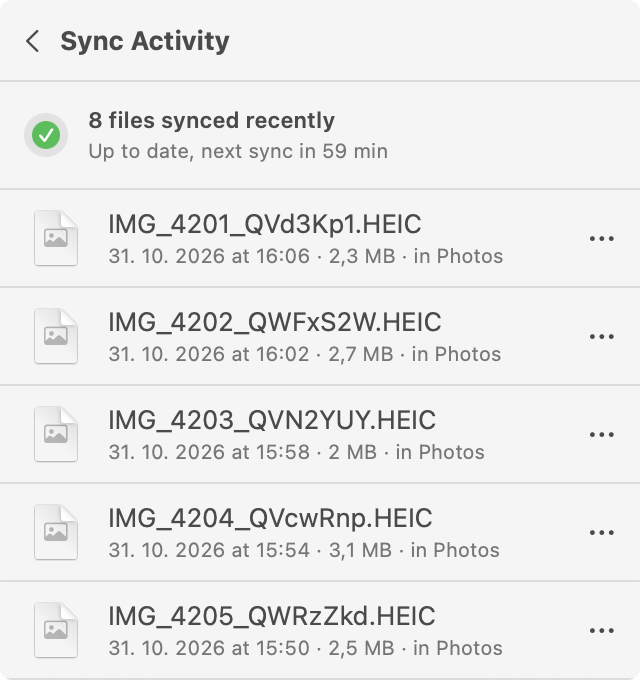
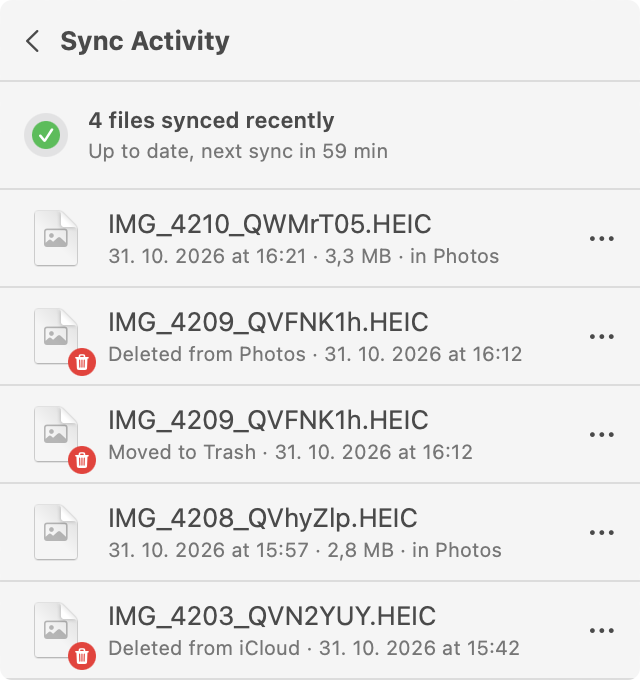
menubar_app: show deletions in Sync Activity
The history now also lists what the app deleted: from iCloud, from Photos, and
files moved to the Trash, each with a red trash badge. The review window and
both automatic directions record their deletions.

diff --git a/menubar_app/Sources/MenuBarApp/AppModel.swift b/menubar_app/Sources/MenuBarApp/AppModel.swift
@@ -154,12 +154,26 @@ final class AppModel: ObservableObject {
         }
     }
 
+    /// Adds the deletions the app carries out to the history (Sync Activity), next to the downloads.
+    func recordEvents(_ kind: ActivityFile.Kind, _ items: [TrashCandidate]) {
+        guard !items.isEmpty else { return }
+        let now = Date().timeIntervalSince1970
+        let events = items.enumerated().map { index, item in
+            ActivityFile(name: item.name, path: item.path, size: item.size > 0 ? item.size : nil,
+                         time: now + Double(index) * 0.001, kind: kind.rawValue)
+        }
+        activity = (events + activity).sorted { $0.time > $1.time }.prefix(200).map { $0 }
+        saveActivity()
+    }
+
+    private var downloadCount: Int { activity.filter { $0.event == .downloaded }.count }
+
     var activitySummary: String {
         if case .syncing(_, let done, let total) = state {
             return total > 0 ? "Syncing \(done) of \(total) files" : "Syncing…"
         }
         if state == .syncRequested { return "Syncing…" }
-        return activity.isEmpty ? "No files synced yet" : "\(activity.count) files synced recently"
+        return downloadCount == 0 ? "No files synced yet" : "\(downloadCount) files synced recently"
     }
 
     // MARK: - Start / stop
@@ -523,6 +537,7 @@ final class AppModel: ObservableObject {
                 if result.ok {
                     deletedFromICloud.formUnion(todo.map(\.id))
                     saveDeletedFromICloud()
+                    recordEvents(.deletedICloud, todo)
                     summary.append("\(todo.count) deleted from iCloud")
                 } else {
                     deletionStatus = "Deleting from iCloud failed, see the log."
@@ -537,6 +552,7 @@ final class AppModel: ObservableObject {
             let ready = items.filter { !wantICloud || deletedFromICloud.contains($0.id) }
             let result = Deletion.moveToTrash(ready)
             AppLog.write("moved \(result.moved) file(s) to the Trash. \(result.failures.joined(separator: "; "))")
+            recordEvents(.trashedDisk, result.items)
             if result.moved > 0 { summary.append("\(result.moved) moved to the Trash") }
         }
         pendingDeletion = []
@@ -638,8 +654,9 @@ final class AppModel: ObservableObject {
         if d.bool(forKey: Prefs.mirrorPhotos) {
             mirrorStatus = "Removing from Photos…"
             switch await PhotosDelete.delete(items) {
-            case .deleted(let count, let notInPhotos):
+            case .deleted(let count, let notInPhotos, let deleted):
                 AppLog.write("deleted \(count) photo(s) from Photos (\(notInPhotos) were not in Photos)")
+                recordEvents(.deletedPhotos, deleted)
                 if count > 0 { summary.append("\(count) deleted from Photos") }
             case .cancelled:
                 AppLog.write("deleting from Photos was cancelled in the system dialog")
@@ -663,6 +680,7 @@ final class AppModel: ObservableObject {
         if d.bool(forKey: Prefs.mirrorDisk) {
             let result = Deletion.moveToTrash(items)
             AppLog.write("moved \(result.moved) file(s) to the Trash. \(result.failures.joined(separator: "; "))")
+            recordEvents(.trashedDisk, result.items)
             if result.moved > 0 { summary.append("\(result.moved) moved to the Trash") }
         }
         mirroredPaths.formUnion(items.map(\.path))

diff --git a/menubar_app/Sources/MenuBarApp/ActivityView.swift b/menubar_app/Sources/MenuBarApp/ActivityView.swift
@@ -1,5 +1,6 @@
 import AppKit
 import SwiftUI
+import UniformTypeIdentifiers
 
 /// "Sync Activity": the files icloudpd downloaded recently, newest first. Click a file to open it.
 struct ActivityView: View {
@@ -66,6 +67,18 @@ struct SyncBadge: View {
     }
 }
 
+/// Small red trash can on the icon of a file that was deleted.
+private struct DeletedBadge: View {
+    var body: some View {
+        Image(systemName: "trash.fill")
+            .font(.system(size: 7, weight: .bold))
+            .foregroundStyle(.white)
+            .frame(width: 14, height: 14)
+            .background(Circle().fill(Color.red))
+            .offset(x: 4, y: 4)
+    }
+}
+
 private struct ActivityRow: View {
     let file: ActivityFile
     let imported: Bool
@@ -73,9 +86,10 @@ private struct ActivityRow: View {
     var body: some View {
         let exists = FileManager.default.fileExists(atPath: file.path)
         HStack(spacing: 10) {
-            Image(nsImage: NSWorkspace.shared.icon(forFile: file.path))
+            Image(nsImage: icon(exists: exists))
                 .resizable().frame(width: 32, height: 32)
                 .opacity(exists ? 1 : 0.4)
+                .overlay(alignment: .bottomTrailing) { if file.event != .downloaded { DeletedBadge() } }
             VStack(alignment: .leading, spacing: 2) {
                 Text(file.name).lineLimit(1).truncationMode(.middle)
                 Text(subtitle(exists: exists)).font(.caption).foregroundStyle(.secondary)
@@ -96,8 +110,21 @@ private struct ActivityRow: View {
         .onTapGesture { if exists { open() } }
     }
 
+    /// A file that no longer exists has no icon of its own; use the one of its type.
+    private func icon(exists: Bool) -> NSImage {
+        if exists || file.event == .downloaded { return NSWorkspace.shared.icon(forFile: file.path) }
+        let type = UTType(filenameExtension: URL(fileURLWithPath: file.path).pathExtension) ?? .data
+        return NSWorkspace.shared.icon(for: type)
+    }
+
     private func subtitle(exists: Bool) -> String {
         let time = Date(timeIntervalSince1970: file.time).formatted(date: .abbreviated, time: .shortened)
+        switch file.event {
+        case .deletedICloud: return "Deleted from iCloud · \(time)"
+        case .deletedPhotos: return "Deleted from Photos · \(time)"
+        case .trashedDisk: return "Moved to Trash · \(time)"
+        case .downloaded: break
+        }
         guard exists else { return "\(time) · file not found" }
         let marker = imported ? " · in Photos" : ""
         guard let size = file.size else { return time + marker }

diff --git a/menubar_app/Sources/MenuBarApp/DeleteReviewView.swift b/menubar_app/Sources/MenuBarApp/DeleteReviewView.swift
@@ -33,15 +33,17 @@ final class ReviewModel: ObservableObject {
     }
 
     /// Dry run, delete from iCloud, or delete from iCloud and move the downloaded files to the Trash.
-    func run(_ mode: DeleteMode) {
+    func run(_ mode: DeleteMode, app: AppModel) {
         guard let items = result?.candidates, !items.isEmpty else { return }
         working = true
         output = ""
         Task {
             let (ok, text) = await Deletion.deleteFromICloud(items, dryRun: mode == .dryRun)
             var report = text
+            if ok, mode != .dryRun { app.recordEvents(.deletedICloud, items) }
             if ok, mode == .iCloudAndDisk {
                 let trashed = Deletion.moveToTrash(items)
+                app.recordEvents(.trashedDisk, trashed.items)
                 report += "\nMoved \(trashed.moved) file(s) to the Trash."
                 if !trashed.failures.isEmpty { report += "\nNot moved: " + trashed.failures.joined(separator: "; ") }
             }
@@ -54,6 +56,7 @@ final class ReviewModel: ObservableObject {
 
 struct DeleteReviewView: View {
     @StateObject private var model = ReviewModel()
+    @EnvironmentObject var app: AppModel
 
     var body: some View {
         VStack(alignment: .leading, spacing: 12) {
@@ -86,7 +89,7 @@ struct DeleteReviewView: View {
                     }
                     .frame(minHeight: 120)
                     HStack {
-                        Button("Dry run") { model.run(.dryRun) }
+                        Button("Dry run") { model.run(.dryRun, app: app) }
                         Button("Delete from iCloud…", role: .destructive) { model.confirmMode = .iCloud }
                         Button("Delete from iCloud & Disk…", role: .destructive) { model.confirmMode = .iCloudAndDisk }
                         if model.working { ProgressView().controlSize(.small) }
@@ -107,9 +110,9 @@ struct DeleteReviewView: View {
             titleVisibility: .visible
         ) {
             if model.confirmMode == .iCloudAndDisk {
-                Button("Delete from iCloud and move files to Trash", role: .destructive) { model.run(.iCloudAndDisk) }
+                Button("Delete from iCloud and move files to Trash", role: .destructive) { model.run(.iCloudAndDisk, app: app) }
             } else {
-                Button("Delete from iCloud", role: .destructive) { model.run(.iCloud) }
+                Button("Delete from iCloud", role: .destructive) { model.run(.iCloud, app: app) }
             }
             Button("Cancel", role: .cancel) {}
         } message: {

diff --git a/menubar_app/Sources/MenuBarApp/PhotosDelete.swift b/menubar_app/Sources/MenuBarApp/PhotosDelete.swift
@@ -7,7 +7,7 @@ import Photos
 /// PhotoKit only sees the System Photo Library.
 enum PhotosDelete {
     enum Outcome {
-        case deleted(count: Int, notInPhotos: Int)
+        case deleted(count: Int, notInPhotos: Int, items: [TrashCandidate])
         case cancelled
         case denied
         case failed(String)
@@ -21,19 +21,20 @@ enum PhotosDelete {
         guard await PHPhotoLibrary.requestAuthorization(for: .readWrite) == .authorized else { return .denied }
 
         var assets: [PHAsset] = []
+        var matched: [TrashCandidate] = []
         var missing = 0
         for item in items where !isSidecar(item.path) {
             let found = assetsNamed(item.name, around: TimeInterval(item.createdUnix))
-            if found.isEmpty { missing += 1 } else { assets += found }
+            if found.isEmpty { missing += 1 } else { assets += found; matched.append(item) }
         }
-        guard !assets.isEmpty else { return .deleted(count: 0, notInPhotos: missing) }
+        guard !assets.isEmpty else { return .deleted(count: 0, notInPhotos: missing, items: []) }
 
         NSApp.activate(ignoringOtherApps: true)  // so that the system dialog is seen
         do {
             try await PHPhotoLibrary.shared().performChanges {
                 PHAssetChangeRequest.deleteAssets(assets as NSArray)
             }
-            return .deleted(count: assets.count, notInPhotos: missing)
+            return .deleted(count: assets.count, notInPhotos: missing, items: matched)
         } catch {
             let ns = error as NSError
             if ns.domain == PHPhotosErrorDomain, ns.code == PHPhotosError.userCancelled.rawValue { return .cancelled }

diff --git a/menubar_app/Sources/MenuBarApp/Deletion.swift b/menubar_app/Sources/MenuBarApp/Deletion.swift
@@ -46,19 +46,21 @@ enum Deletion {
     }
 
     /// Moves the downloaded files to the Trash, so they can still be restored from there.
-    static func moveToTrash(_ items: [TrashCandidate]) -> (moved: Int, failures: [String]) {
+    static func moveToTrash(_ items: [TrashCandidate]) -> (moved: Int, failures: [String], items: [TrashCandidate]) {
         var moved = 0
+        var movedItems: [TrashCandidate] = []
         var failures: [String] = []
         for item in items {
             do {
                 try FileManager.default.trashItem(at: URL(fileURLWithPath: item.path), resultingItemURL: nil)
                 moved += 1
+                movedItems.append(item)
             } catch {
                 failures.append("\(item.name): \(error.localizedDescription)")
             }
         }
         appendAudit(mode: "TRASH", items: items)
-        return (moved, failures)
+        return (moved, failures, movedItems)
     }
 }
 

diff --git a/menubar_app/Sources/MenuBarApp/StatusClient.swift b/menubar_app/Sources/MenuBarApp/StatusClient.swift
@@ -23,7 +23,18 @@ struct ActivityFile: Codable, Identifiable, Hashable {
     let path: String
     let size: Int64?
     let time: Double
-    var id: String { "\(path)|\(time)" }
+    /// nil for a download (what icloudpd reports); the app adds the deletions it carries out
+    var kind: String? = nil
+    var id: String { "\(kind ?? "downloaded")|\(path)|\(time)" }
+
+    enum Kind: String {
+        case downloaded
+        case deletedICloud
+        case deletedPhotos
+        case trashedDisk
+    }
+
+    var event: Kind { Kind(rawValue: kind ?? "") ?? .downloaded }
 }
 
 struct ActivityResponse: Decodable {

diff --git a/menubar_app/Sources/MenuBarApp/App.swift b/menubar_app/Sources/MenuBarApp/App.swift
@@ -15,7 +15,7 @@ struct ICloudpdMenuBarApp: App {
         .menuBarExtraStyle(.window)
 
         Window("Photos Sync Settings", id: "settings") { SettingsView().environmentObject(model) }
-        Window("iCloud deletions", id: "review") { DeleteReviewView() }
+        Window("iCloud deletions", id: "review") { DeleteReviewView().environmentObject(model) }
     }
 }
 

diff --git a/menubar_app/README.md b/menubar_app/README.md
@@ -27,8 +27,8 @@ delete from iCloud (and the disk) the photos you delete in Photos.
   *Sync now* checks right away. Only photos that are not downloaded yet are fetched.
 - **Shows the state in the menu bar icon and the panel**: idle, syncing with progress, up to date with the time to the
   next sync, two-factor code needed, problem.
-- **Keeps a history of synced files** (Sync Activity, like OneDrive's), where each file can be opened or revealed in
-  Finder.
+- **Keeps a history** (Sync Activity, like OneDrive's) of the files that were synced and of the deletions the app
+  carried out (from iCloud, from Photos, moved to the Trash), where each file can be opened or revealed in Finder.
 - **Imports downloaded photos into Apple Photos** automatically (off by default).
 - **Mirrors deletions in both directions**: photos you delete in Photos can be deleted from iCloud and from the disk
   (moved to the Trash), and photos you delete in iCloud can be removed from the disk and from Photos. By hand or
@@ -101,8 +101,9 @@ Permissions the app may ask for:
 - The row with the green check opens **Sync Activity**; the gear opens **Settings**; the three dots open the web UI,
   the log, and Quit.
 
-**Sync Activity** lists the files that were synced, newest first. Click a file to open it, or use the dots for *Show in
-Finder* and *Copy path*. A file that was imported is marked *in Photos*. The list survives restarts.
+**Sync Activity** lists the files that were synced, newest first, and the deletions the app carried out, marked with a red
+trash can and *Deleted from iCloud*, *Deleted from Photos* or *Moved to Trash*. Click a file to open it, or use the dots
+for *Show in Finder* and *Copy path*. A file that was imported is marked *in Photos*. The list survives restarts.
 
 <p align="center"><img src="docs/images/panel-activity.png" width="320" alt="Sync Activity"></p>
 
